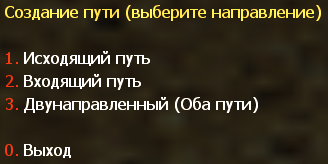
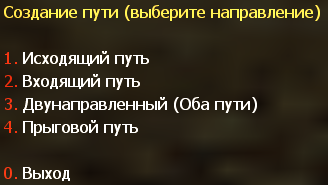
waypointing: added jumping path in path directions menu

Changed region(s): [[0.0, 0.2744, 0.7927, 0.7317], [0.0, 0.0305, 1.0, 0.1829], [0.0, 0.8537, 0.2134, 0.9756]]

diff --git a/docs/waypointing.rst b/docs/waypointing.rst
@@ -503,9 +503,10 @@ Graph данные хранятся в ``.graph`` файле в ``addons/yapb/da
 
     Меню путевых соединений
 
-#. Выберите ``1. Исходящий путь`` чтобы создать исходящее путевое соединение от вэйпоинта на котором вы стоите до выбранного вэйпоинта.
-#. Выберите ``2. Входящий путь`` чтобы создать входящее путевое соединение от выбранного вэйпоинта к вэйпоинту на котором вы стоите.
-#. Выберите ``3. Двунаправленный (Оба пути)`` чтобы создать двунаправленное (двухстороннее) путевое соединение между вэйпоинтом на котором вы стоите и выбранном вэйпоинтом.
+#. Выберите ``1. Исходящий путь`` чтобы создать исходящее путевое соединение от ближайшей до указанной (или кэшированной) точки.
+#. Выберите ``2. Входящий путь`` чтобы создать входящее путевое соединение от указанной (или кэшированной) до ближайшей точки.
+#. Выберите ``3. Двунаправленный (Оба пути)`` чтобы создать двунаправленное (двухстороннее) путевое соединение между ближайшей и указанной (или кэшированной) точкой.
+#. Выберите ``4. Прыговой путь`` чтобы создать исходящее прыговое путевое соединение от ближайшей до указанной (или кэшированной) точки.
 
 
 Флаги вэйпоинтов
